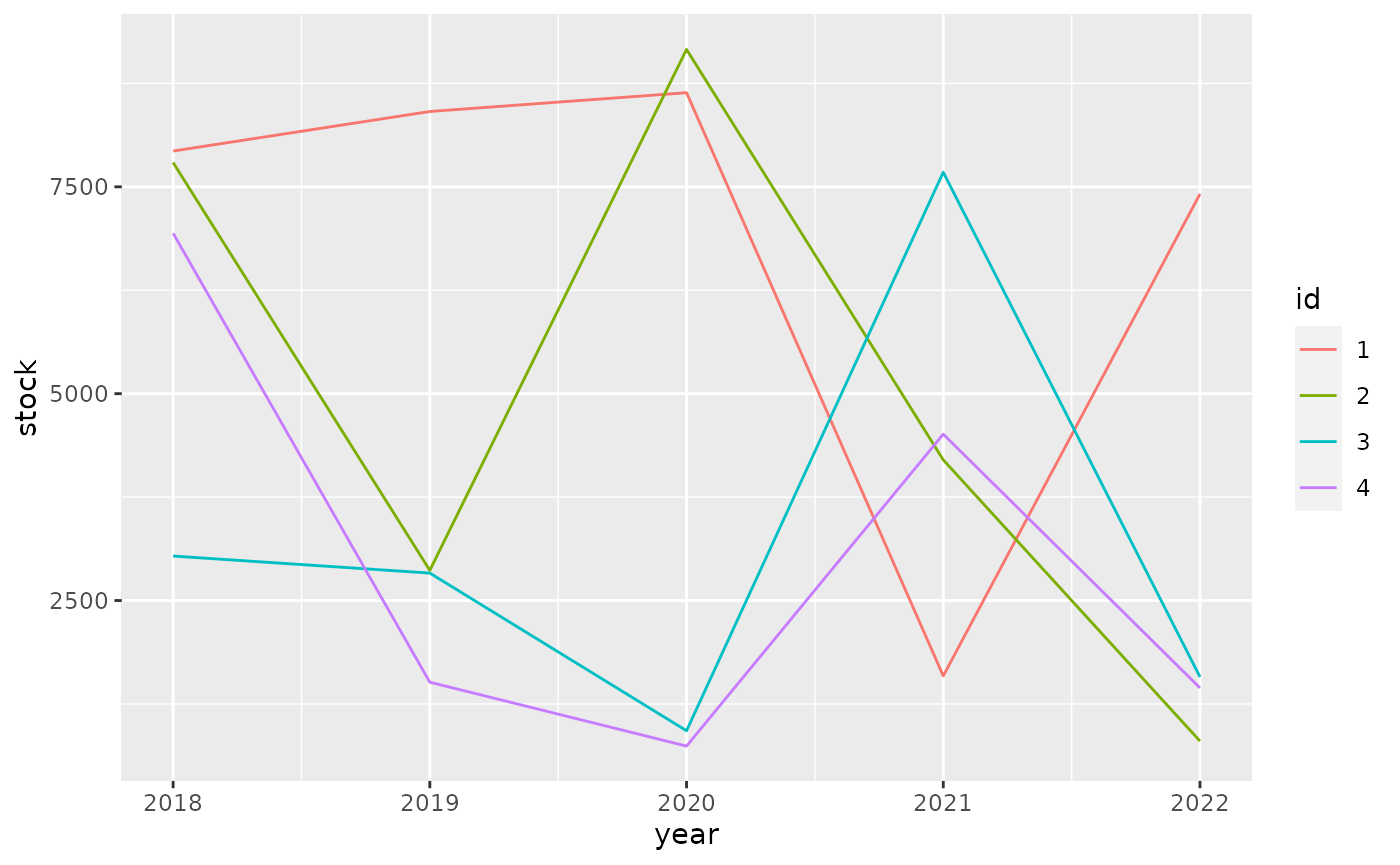
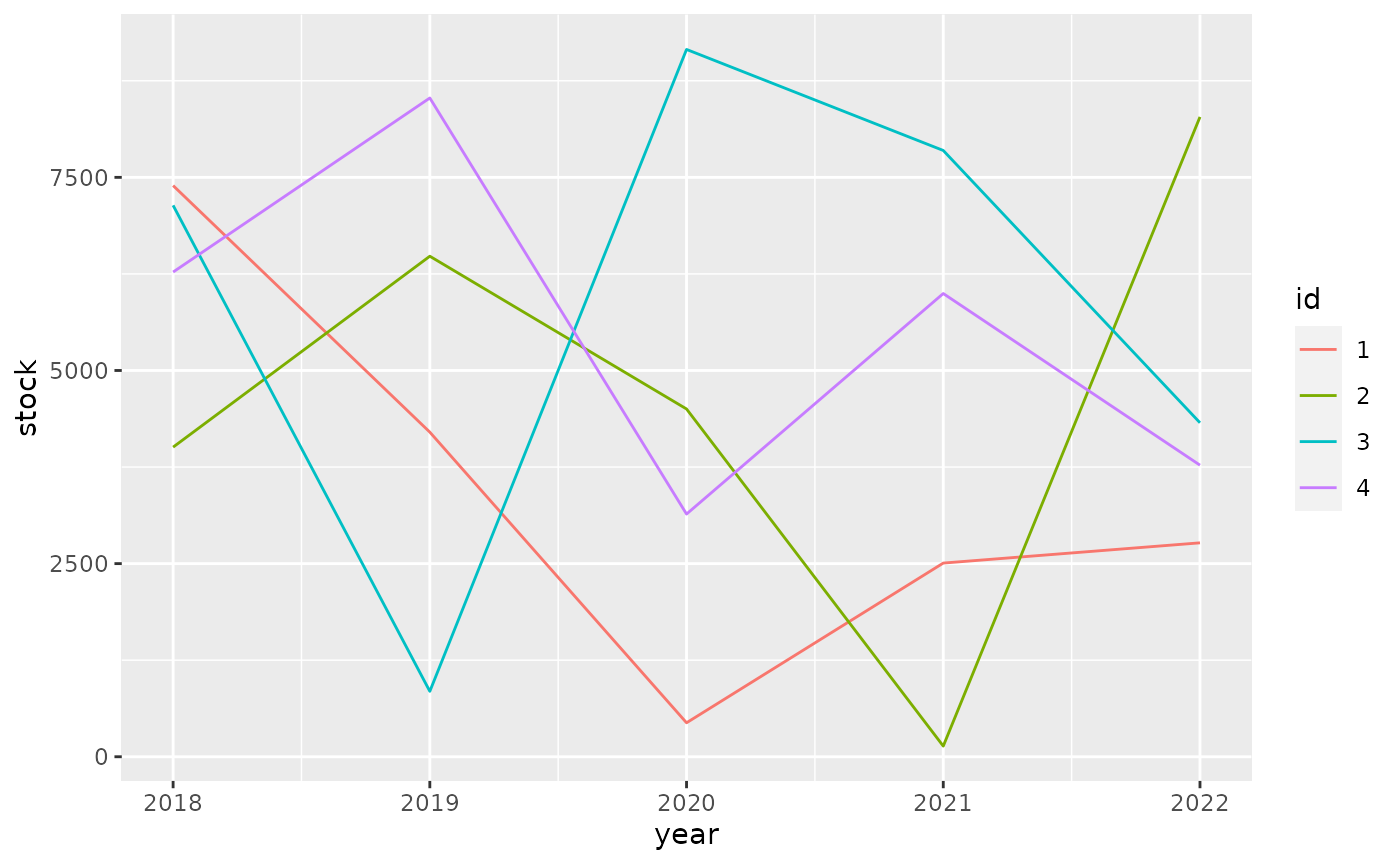
Built site for tibble: 3.1.3.9001@fb73eec

diff --git a/dev/reference/formatting.html b/dev/reference/formatting.html
@@ -803,9 +803,7 @@ the <code>max_footer_lines</code> option is used.</p></td>
 <span class='r-msg co'><span class='r-pr'>#&gt;</span> * hp -&gt; hp...4</span>
 <span class='r-msg co'><span class='r-pr'>#&gt;</span> * drat -&gt; drat...5</span>
 <span class='r-msg co'><span class='r-pr'>#&gt;</span> * ...</span>
-<span class='r-in'><span class='fu'><a href='https://rdrr.io/r/base/print.html'>print</a></span><span class='op'>(</span><span class='va'>mtcars2</span>, n <span class='op'>=</span> <span class='fl'>25</span>, n_extra <span class='op'>=</span> <span class='fl'>3</span><span class='op'>)</span></span>
-<span class='r-wrn co'><span class='r-pr'>#&gt;</span> <span class='warning'>Warning: </span>The `n_extra` argument of `print()` is deprecated as of pillar 1.6.2.</span>
-<span class='r-wrn co'><span class='r-pr'>#&gt;</span> Please use the `max_extra_cols` argument instead.</span>
+<span class='r-in'><span class='fu'><a href='https://rdrr.io/r/base/print.html'>print</a></span><span class='op'>(</span><span class='va'>mtcars2</span>, n <span class='op'>=</span> <span class='fl'>25</span>, max_extra_cols <span class='op'>=</span> <span class='fl'>3</span><span class='op'>)</span></span>
 <span class='r-out co'><span class='r-pr'>#&gt;</span> <span style='color: #949494;'># A tibble: 32 × 22</span></span>
 <span class='r-out co'><span class='r-pr'>#&gt;</span>    mpg...1 cyl...2 disp...3 hp...4 drat...5 wt...6 qsec...7 vs...8 am...9</span>
 <span class='r-out co'><span class='r-pr'>#&gt;</span>      <span style='color: #949494; font-style: italic;'>&lt;dbl&gt;</span>   <span style='color: #949494; font-style: italic;'>&lt;dbl&gt;</span>    <span style='color: #949494; font-style: italic;'>&lt;dbl&gt;</span>  <span style='color: #949494; font-style: italic;'>&lt;dbl&gt;</span>    <span style='color: #949494; font-style: italic;'>&lt;dbl&gt;</span>  <span style='color: #949494; font-style: italic;'>&lt;dbl&gt;</span>    <span style='color: #949494; font-style: italic;'>&lt;dbl&gt;</span>  <span style='color: #949494; font-style: italic;'>&lt;dbl&gt;</span>  <span style='color: #949494; font-style: italic;'>&lt;dbl&gt;</span></span>
@@ -837,9 +835,7 @@ the <code>max_footer_lines</code> option is used.</p></td>
 <span class='r-out co'><span class='r-pr'>#&gt;</span> <span style='color: #949494;'># … with 7 more rows, and 13 more variables: gear...10 &lt;dbl&gt;, carb...11 &lt;dbl&gt;,</span></span>
 <span class='r-out co'><span class='r-pr'>#&gt;</span> <span style='color: #949494;'>#   mpg...12 &lt;dbl&gt;, …</span></span>
 <span class='r-in'></span>
-<span class='r-in'><span class='fu'><a href='https://rdrr.io/r/base/print.html'>print</a></span><span class='op'>(</span><span class='fu'>nycflights13</span><span class='fu'>::</span><span class='va'><a href='https://rdrr.io/pkg/nycflights13/man/flights.html'>flights</a></span>, n_extra <span class='op'>=</span> <span class='fl'>2</span><span class='op'>)</span></span>
-<span class='r-wrn co'><span class='r-pr'>#&gt;</span> <span class='warning'>Warning: </span>The `n_extra` argument of `print()` is deprecated as of pillar 1.6.2.</span>
-<span class='r-wrn co'><span class='r-pr'>#&gt;</span> Please use the `max_extra_cols` argument instead.</span>
+<span class='r-in'><span class='fu'><a href='https://rdrr.io/r/base/print.html'>print</a></span><span class='op'>(</span><span class='fu'>nycflights13</span><span class='fu'>::</span><span class='va'><a href='https://rdrr.io/pkg/nycflights13/man/flights.html'>flights</a></span>, max_footer_lines <span class='op'>=</span> <span class='fl'>1</span><span class='op'>)</span></span>
 <span class='r-out co'><span class='r-pr'>#&gt;</span> <span style='color: #949494;'># A tibble: 336,776 × 19</span></span>
 <span class='r-out co'><span class='r-pr'>#&gt;</span>     year month   day dep_time sched_dep_time dep_delay arr_time sched_arr_time</span>
 <span class='r-out co'><span class='r-pr'>#&gt;</span>    <span style='color: #949494; font-style: italic;'>&lt;int&gt;</span> <span style='color: #949494; font-style: italic;'>&lt;int&gt;</span> <span style='color: #949494; font-style: italic;'>&lt;int&gt;</span>    <span style='color: #949494; font-style: italic;'>&lt;int&gt;</span>          <span style='color: #949494; font-style: italic;'>&lt;int&gt;</span>     <span style='color: #949494; font-style: italic;'>&lt;dbl&gt;</span>    <span style='color: #949494; font-style: italic;'>&lt;int&gt;</span>          <span style='color: #949494; font-style: italic;'>&lt;int&gt;</span></span>
@@ -853,8 +849,7 @@ the <code>max_footer_lines</code> option is used.</p></td>
 <span class='r-out co'><span class='r-pr'>#&gt;</span> <span style='color: #BCBCBC;'> 8</span>  <span style='text-decoration: underline;'>2</span>013     1     1      557            600        -<span style='color: #BB0000;'>3</span>      709            723</span>
 <span class='r-out co'><span class='r-pr'>#&gt;</span> <span style='color: #BCBCBC;'> 9</span>  <span style='text-decoration: underline;'>2</span>013     1     1      557            600        -<span style='color: #BB0000;'>3</span>      838            846</span>
 <span class='r-out co'><span class='r-pr'>#&gt;</span> <span style='color: #BCBCBC;'>10</span>  <span style='text-decoration: underline;'>2</span>013     1     1      558            600        -<span style='color: #BB0000;'>2</span>      753            745</span>
-<span class='r-out co'><span class='r-pr'>#&gt;</span> <span style='color: #949494;'># … with 336,766 more rows, and 11 more variables: arr_delay &lt;dbl&gt;,</span></span>
-<span class='r-out co'><span class='r-pr'>#&gt;</span> <span style='color: #949494;'>#   carrier &lt;chr&gt;, …</span></span>
+<span class='r-out co'><span class='r-pr'>#&gt;</span> <span style='color: #949494;'># … with 336,766 more rows, and 11 more variables: arr_delay &lt;dbl&gt;, …</span></span>
 <span class='r-in'><span class='fu'><a href='https://rdrr.io/r/base/print.html'>print</a></span><span class='op'>(</span><span class='fu'>nycflights13</span><span class='fu'>::</span><span class='va'><a href='https://rdrr.io/pkg/nycflights13/man/flights.html'>flights</a></span>, width <span class='op'>=</span> <span class='cn'>Inf</span><span class='op'>)</span></span>
 <span class='r-out co'><span class='r-pr'>#&gt;</span> <span style='color: #949494;'># A tibble: 336,776 × 19</span></span>
 <span class='r-out co'><span class='r-pr'>#&gt;</span>     year month   day dep_time sched_dep_time dep_delay arr_time sched_arr_time</span>

diff --git a/dev/articles/formats.html b/dev/articles/formats.html
@@ -221,10 +221,10 @@
 <span class="co">#&gt; # A tibble: 4 × 6</span>
 <span class="co">#&gt;   id       `2018`    `2019`    `2020`    `2021`    `2022`</span>
 <span class="co">#&gt;   &lt;fct&gt; &lt;dbl:fmt&gt; &lt;dbl:fmt&gt; &lt;dbl:fmt&gt; &lt;dbl:fmt&gt; &lt;dbl:fmt&gt;</span>
-<span class="co">#&gt; 1 1     $7,932.33 $8,410.22 $8,637.26 $1,588.88 $7,413.60</span>
-<span class="co">#&gt; 2 2     $7,793.61 $2,864.70 $9,160.28 $4,200.01   $801.27</span>
-<span class="co">#&gt; 3 3     $3,037.53 $2,831.62   $926.20 $7,676.42 $1,576.91</span>
-<span class="co">#&gt; 4 4     $6,938.75 $1,512.94   $740.85 $4,510.29 $1,443.91</span></code></pre></div>
+<span class="co">#&gt; 1 1     $7,393.72 $4,201.93   $439.74 $2,507.05 $2,769.04</span>
+<span class="co">#&gt; 2 2     $4,007.74 $6,479.09 $4,501.68   $138.12 $8,282.24</span>
+<span class="co">#&gt; 3 3     $7,137.68   $846.90 $9,155.75 $7,848.02 $4,323.32</span>
+<span class="co">#&gt; 4 4     $6,274.25 $8,527.41 $3,141.53 $5,996.11 $3,774.49</span></code></pre></div>
 <p>For ggplot2 we need to do <a href="https://github.com/tidyverse/ggplot2/pull/4065" class="external-link">some work</a> to show apply the formatting to the scales.</p>
 <div class="sourceCode" id="cb6"><pre class="downlit sourceCode r">
 <code class="sourceCode R"><span class="kw"><a href="https://rdrr.io/r/base/library.html" class="external-link">library</a></span><span class="op">(</span><span class="va"><a href="https://ggplot2.tidyverse.org" class="external-link">ggplot2</a></span><span class="op">)</span>
@@ -235,10 +235,10 @@
   <span class="fu"><a href="https://ggplot2.tidyverse.org/reference/geom_path.html" class="external-link">geom_line</a></span><span class="op">(</span><span class="op">)</span></code></pre></div>
 <p><img src="formats_files/figure-html/unnamed-chunk-7-1.png" width="700"></p>
 <p>It pays off to specify formatting very early in the process. The diagram below shows the principal stages of data analysis and exploration from “R for data science”.</p>
-<div id="htmlwidget-1372a33204485e63e5a7" style="width:700px;height:432.632880098888px;" class="DiagrammeR html-widget"></div>
-<script type="application/json" data-for="htmlwidget-1372a33204485e63e5a7">{"x":{"diagram":"graph TD\n  Import --> Tidy\n  Tidy --> Transform\n  Transform --> Visualize\n  Visualize --> Communicate\n  Visualize --> Model\n  Model -.-> Transform"},"evals":[],"jsHooks":[]}</script><p>The subsequent diagram adds data formats, communication options, and explicit data formatting. The original r4ds transitions are highlighted in bold. There are two principal options where to apply formatting for results: right before communicating them, or right after importing.</p>
-<div id="htmlwidget-5989fbf4bd87d056f56e" style="width:700px;height:432.632880098888px;" class="DiagrammeR html-widget"></div>
-<script type="application/json" data-for="htmlwidget-5989fbf4bd87d056f56e">{"x":{"diagram":"graph TD\n  .csv --> Import\n  API --> Import\n  DBI --> Import\n  dbplyr --> Import\n  Import -.-> Format[Format for analysis]\n  Format -.-> Tidy\n\n  subgraph r4ds\n  Import ==> Tidy\n  Tidy ==> Transform\n  Transform ==> Visualize\n  Visualize ==> Model\n  Model -.-> Transform\n  Visualize ==> Communicate\n  end\n\n  Visualize -.-> FormatComm[Format for communication]\n  FormatComm -.-> Communicate\n\n  FormatComm -- Apply formatting early --> Format\n\n  dbplyr -.-> Tidy\n  dbplyr -.-> Transform\n  dbplyr -.-> Visualize\n\n  Communicate --> gt\n  Communicate --> ggplot2\n  Communicate --> DT\n  Communicate --> plotly"},"evals":[],"jsHooks":[]}</script><p>Applying formatting early in the process gives the added benefit of showing the data in a useful format during the “Tidy”, “Transform”, and “Visualize” stages. For this to be useful, we need to ensure that the formatting options applied early:</p>
+<div id="htmlwidget-a28a9e3677c31673bbf6" style="width:700px;height:432.632880098888px;" class="DiagrammeR html-widget"></div>
+<script type="application/json" data-for="htmlwidget-a28a9e3677c31673bbf6">{"x":{"diagram":"graph TD\n  Import --> Tidy\n  Tidy --> Transform\n  Transform --> Visualize\n  Visualize --> Communicate\n  Visualize --> Model\n  Model -.-> Transform"},"evals":[],"jsHooks":[]}</script><p>The subsequent diagram adds data formats, communication options, and explicit data formatting. The original r4ds transitions are highlighted in bold. There are two principal options where to apply formatting for results: right before communicating them, or right after importing.</p>
+<div id="htmlwidget-c0b206941009c390b49b" style="width:700px;height:432.632880098888px;" class="DiagrammeR html-widget"></div>
+<script type="application/json" data-for="htmlwidget-c0b206941009c390b49b">{"x":{"diagram":"graph TD\n  .csv --> Import\n  API --> Import\n  DBI --> Import\n  dbplyr --> Import\n  Import -.-> Format[Format for analysis]\n  Format -.-> Tidy\n\n  subgraph r4ds\n  Import ==> Tidy\n  Tidy ==> Transform\n  Transform ==> Visualize\n  Visualize ==> Model\n  Model -.-> Transform\n  Visualize ==> Communicate\n  end\n\n  Visualize -.-> FormatComm[Format for communication]\n  FormatComm -.-> Communicate\n\n  FormatComm -- Apply formatting early --> Format\n\n  dbplyr -.-> Tidy\n  dbplyr -.-> Transform\n  dbplyr -.-> Visualize\n\n  Communicate --> gt\n  Communicate --> ggplot2\n  Communicate --> DT\n  Communicate --> plotly"},"evals":[],"jsHooks":[]}</script><p>Applying formatting early in the process gives the added benefit of showing the data in a useful format during the “Tidy”, “Transform”, and “Visualize” stages. For this to be useful, we need to ensure that the formatting options applied early:</p>
 <ul>
 <li>give a good user experience for analysis
 <ul>

diff --git a/dev/articles/types.html b/dev/articles/types.html
@@ -352,7 +352,7 @@
 #&gt; $ factor        &lt;fct&gt; A
 #&gt; $ ordered       &lt;ord&gt; a
 #&gt; $ Date          &lt;date&gt; 2021-07-31
-#&gt; $ POSIXt        &lt;dttm&gt; 2021-07-31 02:53:51
+#&gt; $ POSIXt        &lt;dttm&gt; 2021-07-31 03:18:24
 #&gt; $ difftime      &lt;drtn&gt; 1 secs
 #&gt; $ hms           &lt;time&gt; 00:00:01
 #&gt; $ integer64     &lt;int64&gt; 10000000000
@@ -388,7 +388,7 @@
 <span class="co">#&gt;             "sym"</span>
 <span class="co">#&gt;         }, typeof(x))</span>
 <span class="co">#&gt; }</span>
-<span class="co">#&gt; &lt;bytecode: 0x560bd1305110&gt;</span>
+<span class="co">#&gt; &lt;bytecode: 0x561a69d161f0&gt;</span>
 <span class="co">#&gt; &lt;environment: namespace:pillar&gt;</span></code></pre></div>
 </div>
   </div>
